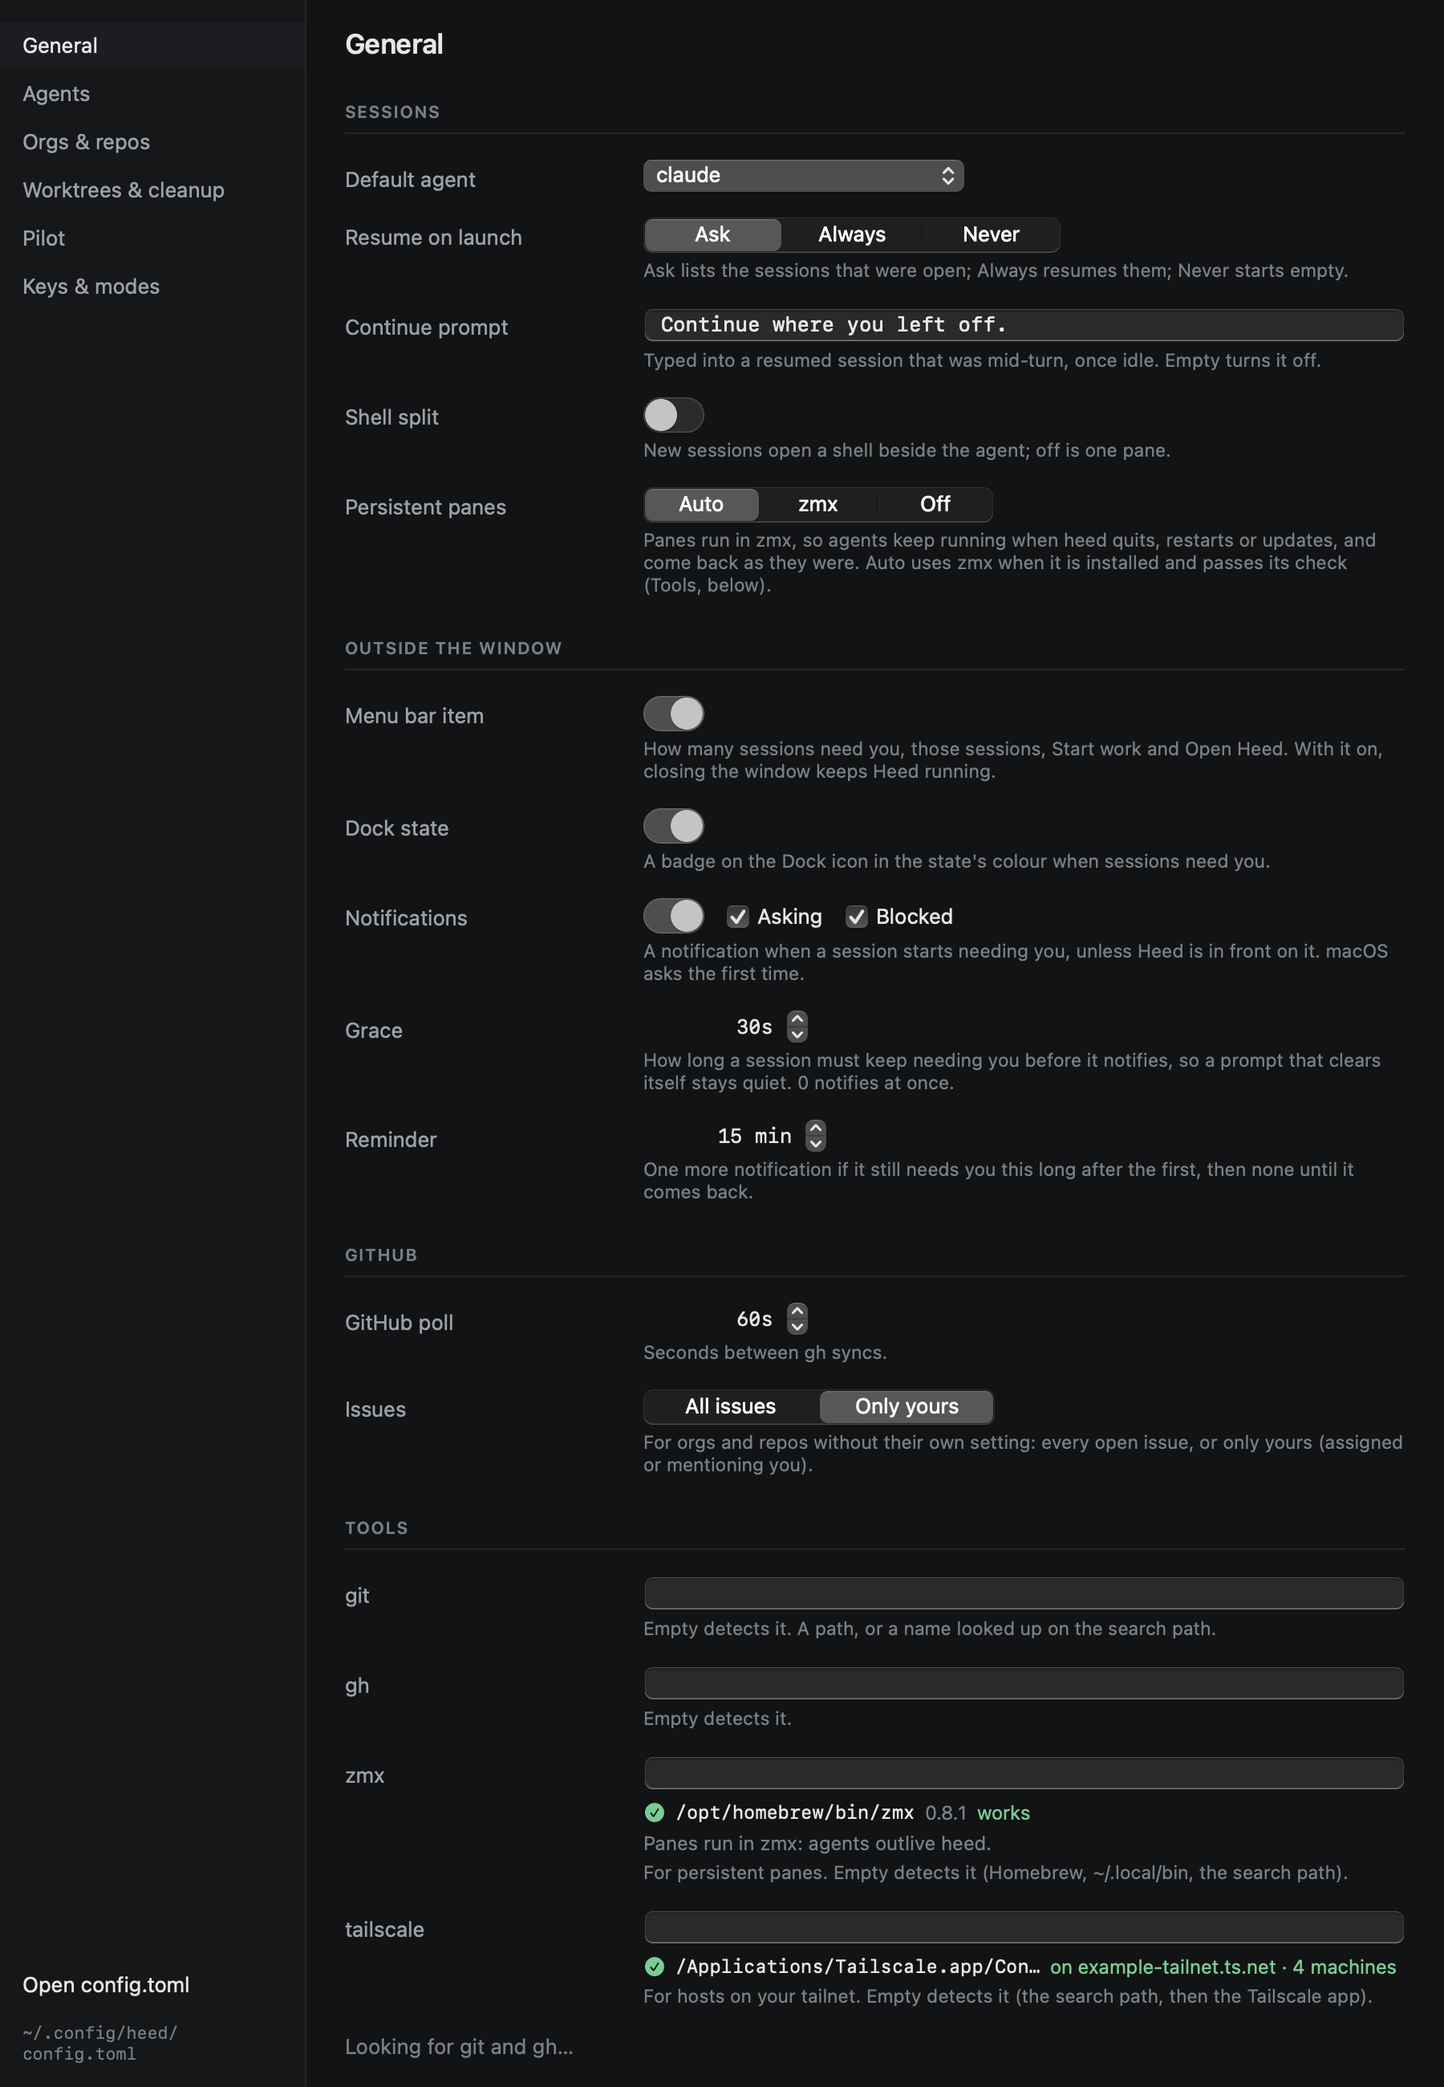
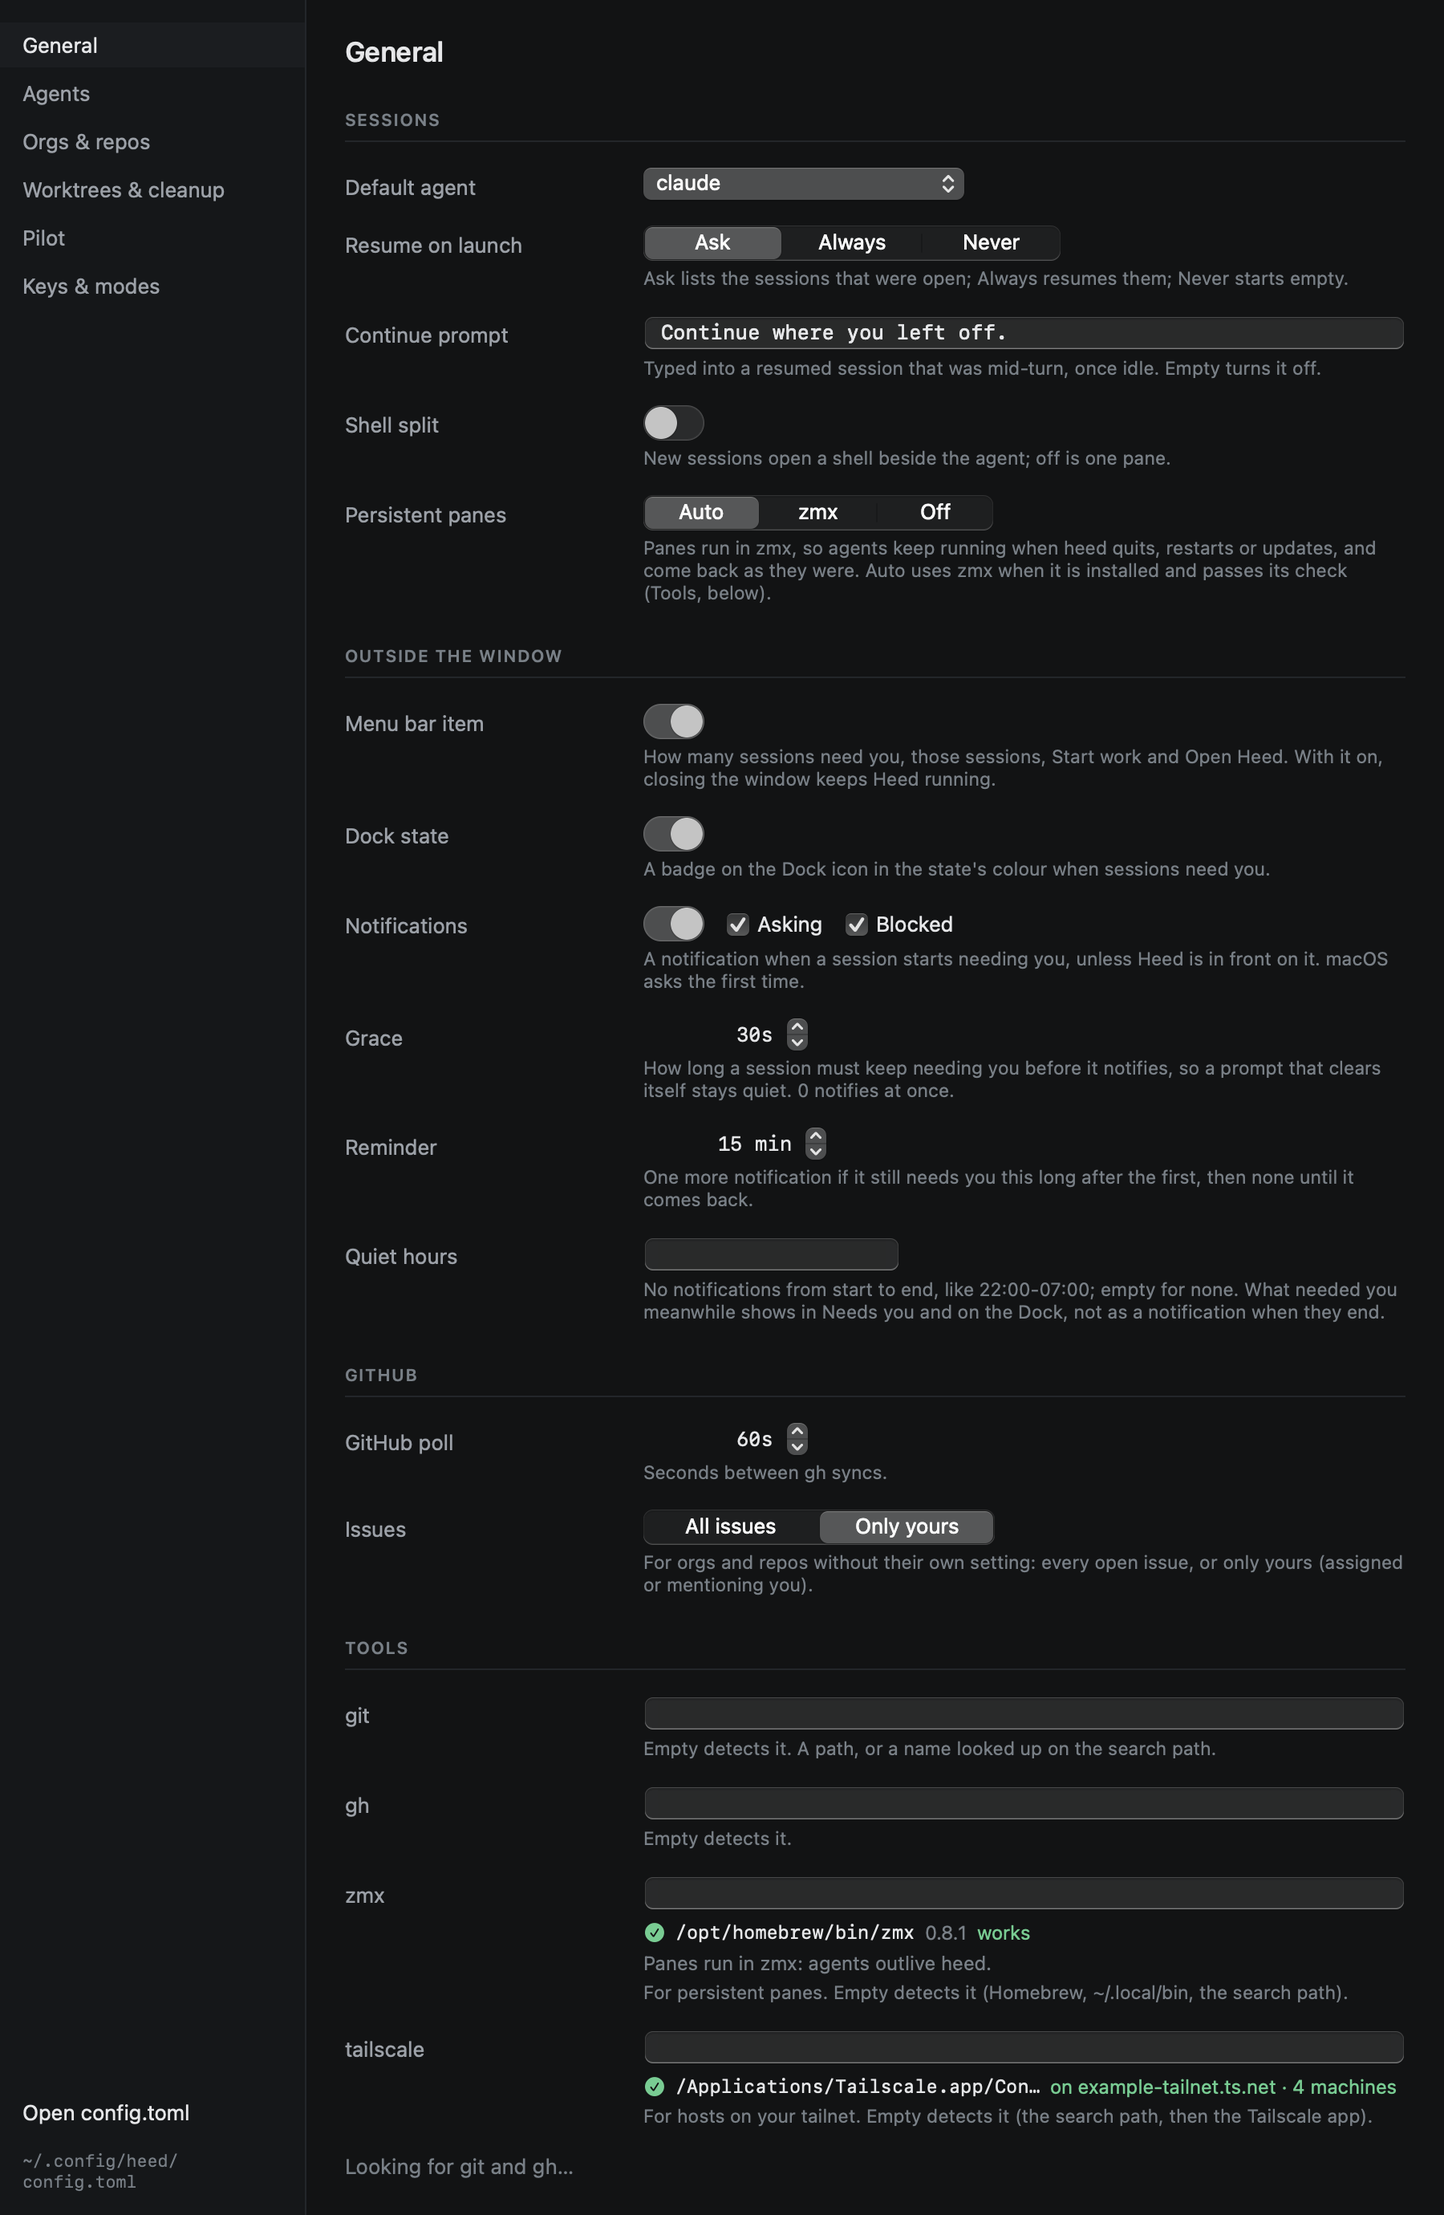
Quiet hours: no notifications between [attention] quiet's start and end
`[attention] quiet = "22:00-07:00"` (local time, may cross midnight; "" for none) is defined here so sessions
respect it now and attention items can later. In quiet hours `Notices` shows nothing, and what came due then is done:
no reminder, and nothing when they end, since Needs you and the Dock badge already show it. Quiet hours is in
Settings under Outside the window, the template and the docs; the settings shot grows to fit.

diff --git a/Tests/HeedCoreTests/QuietHoursTests.swift b/Tests/HeedCoreTests/QuietHoursTests.swift
@@ -1,0 +1,95 @@
+import Foundation
+@testable import HeedCore
+import Testing
+
+struct QuietHoursTests {
+    private var utc: Calendar {
+        var calendar = Calendar(identifier: .gregorian)
+        calendar.timeZone = TimeZone(identifier: "UTC")!
+        return calendar
+    }
+
+    /// 2026-10-22 at `hour`:`minute` UTC.
+    private func time(_ hour: Int, _ minute: Int = 0) -> Date {
+        utc.date(from: DateComponents(year: 2026, month: 10, day: 22, hour: hour, minute: minute))!
+    }
+
+    @Test func parses() {
+        #expect(QuietHours(parsing: "22:00-07:00") == QuietHours(start: 22 * 60, end: 7 * 60))
+        #expect(QuietHours(parsing: " 09:30 - 17:15 ")?.description == "09:30-17:15")
+        for bad in ["", "22-07", "22:00", "24:00-07:00", "22:60-07:00", "7:00-9:00", "22:00-22:00", "a:bc-07:00"] {
+            #expect(QuietHours(parsing: bad) == nil, "\(bad)")
+        }
+    }
+
+    @Test func acrossMidnight() {
+        let quiet = QuietHours(parsing: "22:00-07:00")!
+        #expect(quiet.contains(time(22), calendar: utc))
+        #expect(quiet.contains(time(3), calendar: utc))
+        #expect(quiet.contains(time(6, 59), calendar: utc))
+        #expect(!quiet.contains(time(7), calendar: utc))
+        #expect(!quiet.contains(time(21, 59), calendar: utc))
+    }
+
+    @Test func withinADay() {
+        let quiet = QuietHours(parsing: "12:00-13:30")!
+        #expect(quiet.contains(time(12), calendar: utc) && quiet.contains(time(13, 29), calendar: utc))
+        #expect(!quiet.contains(time(13, 30), calendar: utc) && !quiet.contains(time(11, 59), calendar: utc))
+    }
+
+    @Test func configDecodes() {
+        #expect(HeedConfig.default.attention.quiet == nil)
+        #expect(ConfigLoader.decode(ConfigLoader.defaultSource).config?.attention == AttentionSettings())
+        let (config, problems) = ConfigLoader.decode("[attention]\nquiet = \"23:00-06:30\"\n")
+        #expect(problems.isEmpty)
+        #expect(config?.attention.quiet == QuietHours(start: 23 * 60, end: 6 * 60 + 30))
+        let bad = ConfigLoader.decode("[attention]\nquiet = \"late\"\n")
+        #expect(bad.problems.map(\.path) == ["attention.quiet"])
+        #expect(bad.config?.attention.quiet == nil)
+    }
+
+    // MARK: Notices in quiet hours
+
+    private let start = Date(timeIntervalSince1970: 1000)
+    private let settings = NotificationSettings(graceSeconds: 30, reminderMinutes: 15)
+
+    private func at(_ seconds: TimeInterval) -> Date { start.addingTimeInterval(seconds) }
+
+    private func enter(_ notices: inout Notices, _ id: String, after seconds: TimeInterval = 0) {
+        notices.note(
+            id: id, title: "t-\(id)", agent: "claude", from: .working, to: ObservedState(.blocked),
+            settings: settings, at: at(seconds)
+        )
+    }
+
+    @Test func nothingInQuietHoursNorWhenTheyEnd() {
+        var notices = Notices()
+        enter(&notices, "a")
+        #expect(notices.drain(at: at(33), quiet: true) == nil)
+        #expect(notices.stage(of: "a") == .done)
+        #expect(notices.next == nil)
+        #expect(notices.drain(at: at(33 + 15 * 60 + 3)) == nil)
+    }
+
+    @Test func aReminderDueInQuietHoursIsDropped() {
+        var notices = Notices()
+        enter(&notices, "a")
+        #expect(notices.drain(at: at(33)) != nil)
+        #expect(notices.drain(at: at(33 + 15 * 60 + 3), quiet: true) == nil)
+        #expect(notices.next == nil)
+    }
+
+    @Test func afterQuietHoursNewChangesNotifyAgain() {
+        var notices = Notices()
+        enter(&notices, "a")
+        _ = notices.drain(at: at(33), quiet: true)
+        enter(&notices, "b", after: 100)
+        #expect(notices.drain(at: at(133))?.session == "b")
+        notices.note(
+            id: "a", title: "t-a", agent: "claude", from: .blocked, to: ObservedState(.working), settings: settings,
+            at: at(200)
+        )
+        enter(&notices, "a", after: 300)
+        #expect(notices.drain(at: at(333))?.session == "a")
+    }
+}

diff --git a/Sources/HeedCore/Config/HeedConfig.swift b/Sources/HeedCore/Config/HeedConfig.swift
@@ -15,6 +15,8 @@ public struct HeedConfig: Equatable, Sendable {
     public var showDockState = true
     /// `[notifications]`: a macOS notification when a session starts needing you.
     public var notifications = NotificationSettings()
+    /// `[attention]`: quiet hours, which notifications respect.
+    public var attention = AttentionSettings()
     /// `[summary] away_hours`: how long away (from the Mac, or with heed quit) before the summary of what happened
     /// opens on its own; 0 never opens it.
     public var summaryAwayHours = 8
@@ -73,6 +75,7 @@ public struct HeedConfig: Equatable, Sendable {
             lhs.showMenuBarItem == rhs.showMenuBarItem,
             lhs.showDockState == rhs.showDockState,
             lhs.notifications == rhs.notifications,
+            lhs.attention == rhs.attention,
             lhs.summaryAwayHours == rhs.summaryAwayHours,
             flat(lhs.keys) == flat(rhs.keys),
             flat(lhs.scopedKeys) == flat(rhs.scopedKeys),
@@ -541,6 +544,19 @@ public enum ConfigLoader {
         if let minutes = integer(["notifications", "reminder_minutes"], range: 0 ... 1440) {
             config.notifications.reminderMinutes = minutes
         }
+        // [attention]
+        if let text = string(["attention", "quiet"]) {
+            if text.isEmpty {
+                config.attention.quiet = nil
+            } else if let quiet = QuietHours(parsing: text) {
+                config.attention.quiet = quiet
+            } else {
+                problems.append(ConfigProblem(
+                    path: "attention.quiet",
+                    message: "expected \"HH:MM-HH:MM\" (24-hour, like \"22:00-07:00\"), or \"\""
+                ))
+            }
+        }
         // [summary]
         if let hours = integer(["summary", "away_hours"], range: 0 ... 720) { config.summaryAwayHours = hours }
         // [updates]
@@ -727,6 +743,11 @@ public enum ConfigLoader {
     grace_seconds = 30
     # One reminder if it still needs you this long after the notification, then nothing until it comes back; 0: none.
     reminder_minutes = 15
+
+    [attention]
+    # Quiet hours: no notifications from start to end, local time, 24-hour ("22:00-07:00"); "" for none. What needed
+    # you meanwhile is not notified when they end: Needs you and the Dock badge show it. macOS Focus applies as well.
+    quiet = ""
 
     [summary]
     # While you were away: what still waits on you, then what merged, how background runs ended, which agents

diff --git a/Sources/HeedCore/Config/QuietHours.swift b/Sources/HeedCore/Config/QuietHours.swift
@@ -1,0 +1,52 @@
+import Foundation
+
+/// `[attention] quiet = "22:00-07:00"`: hours in which Heed posts no notifications. The span may cross midnight; the
+/// start is in it, the end is not.
+public struct QuietHours: Equatable, Sendable, CustomStringConvertible {
+    /// Minutes after midnight.
+    public var start: Int
+    public var end: Int
+
+    public init?(start: Int, end: Int) {
+        guard (0 ..< 1440).contains(start), (0 ..< 1440).contains(end), start != end else { return nil }
+        self.start = start
+        self.end = end
+    }
+
+    /// `HH:MM-HH:MM`, 24-hour.
+    public init?(parsing text: String) {
+        let parts = text.split(separator: "-", omittingEmptySubsequences: false)
+            .map { $0.trimmingCharacters(in: .whitespaces) }
+        guard parts.count == 2, let start = Self.minutes(parts[0]), let end = Self.minutes(parts[1]) else { return nil }
+        self.init(start: start, end: end)
+    }
+
+    private static func minutes(_ text: String) -> Int? {
+        let parts = text.split(separator: ":", omittingEmptySubsequences: false)
+        guard parts.count == 2, parts[0].count == 2, parts[1].count == 2, let hours = Int(parts[0]),
+              let minutes = Int(parts[1]), (0 ..< 24).contains(hours), (0 ..< 60).contains(minutes)
+        else { return nil }
+        return hours * 60 + minutes
+    }
+
+    /// Whether `date`, on the local clock (`calendar`), falls in these hours.
+    public func contains(_ date: Date, calendar: Calendar = .current) -> Bool {
+        let parts = calendar.dateComponents([.hour, .minute], from: date)
+        let minute = (parts.hour ?? 0) * 60 + (parts.minute ?? 0)
+        return start < end ? (start ..< end).contains(minute) : minute >= start || minute < end
+    }
+
+    public var description: String {
+        func text(_ minutes: Int) -> String { String(format: "%02d:%02d", minutes / 60, minutes % 60) }
+        return "\(text(start))-\(text(end))"
+    }
+}
+
+/// `[attention]`: what may ask for your attention, and when not. Only `quiet` so far; it applies to every notification.
+public struct AttentionSettings: Equatable, Sendable {
+    public var quiet: QuietHours?
+
+    public init(quiet: QuietHours? = nil) {
+        self.quiet = quiet
+    }
+}

diff --git a/Sources/HeedCore/Sessions/Notices.swift b/Sources/HeedCore/Sessions/Notices.swift
@@ -198,24 +198,28 @@ public struct Notices: Equatable, Sendable {
 
     /// Once a drain is due, what is ready by `now` as one notice: each entry past its grace, or due its reminder, moves
     /// on a stage. Those whose session `onScreen` says you are looking at are left out; seen counts as notified, so the
-    /// reminder
-    /// still comes. Before then, nothing changes.
-    public mutating func drain(at now: Date, onScreen: (String) -> Bool = { _ in false }) -> Notice? {
+    /// reminder still comes. In `quiet` hours nothing is shown and what came due is done: no reminder, and nothing when
+    /// they end (Needs you and the Dock badge still show it). Before a drain is due, nothing changes.
+    public mutating func drain(
+        at now: Date, quiet: Bool = false, onScreen: (String) -> Bool = { _ in false }
+    ) -> Notice? {
         guard due(at: now) else { return nil }
         var shown: [Entry] = []
         for index in waiting.indices {
             guard let ready = waiting[index].ready, ready <= now else { continue }
             var entry = waiting[index].entry
             switch waiting[index].stage {
-            case .grace:
+            case .grace where !quiet:
                 waiting[index].stage = .notified(remind: waiting[index].timing.reminder.map(now.addingTimeInterval))
+            case .grace:
+                waiting[index].stage = .done
             case .notified:
                 waiting[index].stage = .done
                 entry.reminder = true
             case .done:
                 continue
             }
-            if !onScreen(entry.session) { shown.append(entry) }
+            if !quiet, !onScreen(entry.session) { shown.append(entry) }
         }
         switch shown.count {
         case 0: return nil

diff --git a/Sources/HeedApp/Notifications/Notifier.swift b/Sources/HeedApp/Notifications/Notifier.swift
@@ -4,7 +4,8 @@ import HeedCore
 
 /// macOS notifications when sessions start needing you (`[notifications]`): asked for, never taken, so Heed stays out
 /// of the way until you choose Open. When and what is `Notices`' call: a grace first, a burst as one summary, one
-/// reminder. Nothing is shown for the session you are looking at, and permission to notify is asked the first time
+/// reminder, nothing in quiet hours. Nothing is shown for the session you are looking at, and permission to notify is
+/// asked the first time
 /// there is something to say, not at launch.
 @MainActor
 final class Notifier: NSObject, UNUserNotificationCenterDelegate {
@@ -88,7 +89,9 @@ final class Notifier: NSObject, UNUserNotificationCenterDelegate {
         wake = nil
         drainTask = nil
         guard let model else { return }
-        let notice = notices.drain(at: Date()) { model.isOnScreen(sessionID: $0) }
+        let now = Date()
+        let quiet = model.config.attention.quiet?.contains(now) ?? false
+        let notice = notices.drain(at: now, quiet: quiet) { model.isOnScreen(sessionID: $0) }
         schedule()
         await post(notice)
     }

diff --git a/Sources/HeedApp/Views/SettingsView.swift b/Sources/HeedApp/Views/SettingsView.swift
@@ -329,6 +329,14 @@ private struct GeneralSettings: View {
                 .frame(width: 160)
                 .disabled(!model.config.notifications.enabled)
             }
+            Field(
+                label: "Quiet hours",
+                detail: "No notifications from start to end, like 22:00-07:00; empty for none. What needed you "
+                    + "meanwhile shows in Needs you and on the Dock, not as a notification when they end."
+            ) {
+                ConfigTextField(path: ["attention", "quiet"], value: model.config.attention.quiet?.description ?? "")
+                    .frame(width: 160)
+            }
             GroupLabel(title: "GitHub")
             Field(label: "GitHub poll", detail: "Seconds between gh syncs.") {
                 Stepper(value: Binding(

diff --git a/Sources/HeedApp/Shots/Shots.swift b/Sources/HeedApp/Shots/Shots.swift
@@ -321,7 +321,7 @@ enum Shots {
         Shot(id: "configuration/problem", keys: "", crop: .statusBar, cropPadding: 0, prepare: { model in
             model.applyConfig(source: "[cleanup]\nidle_days = 0\n")
         }),
-        Shot(id: "configuration/settings", subject: .settings(), size: CGSize(width: 900, height: 1300)),
+        Shot(id: "configuration/settings", subject: .settings(), size: CGSize(width: 900, height: 1380)),
         Shot(id: "configuration/orgs-repos", subject: .settings(.colors), size: CGSize(width: 1180, height: 1400)),
     ]
 

diff --git a/docs/outside-the-window/notifications.md b/docs/outside-the-window/notifications.md
@@ -29,6 +29,10 @@ time there is something to say, not when Heed starts; System Settings › Notifi
   it brings Heed forward on the session instead, so you answer it yourself. macOS asks you to unlock first when the
   screen is locked. Other agents' prompts get Open only.
 
+- **Quiet hours.** `[attention] quiet` names hours with no notifications, in local time (`"22:00-07:00"` crosses
+  midnight). What starts needing you meanwhile is not notified when they end, and gets no reminder: Needs you and the
+  Dock badge show it. macOS Focus is respected too, by macOS itself.
+
 ```toml
 [notifications]
 enabled = true
@@ -36,6 +40,9 @@ asking = true      # questions, a plan to approve
 blocked = true     # permission prompts
 grace_seconds = 30
 reminder_minutes = 15
+
+[attention]
+quiet = "22:00-07:00"   # "" for none
 ```
 
 The same settings are in Settings (`⌘,`), under Outside the window.

diff --git a/docs/configuration/reference.md b/docs/configuration/reference.md
@@ -150,6 +150,11 @@ grace_seconds = 30
 # One reminder if it still needs you this long after the notification, then nothing until it comes back; 0: none.
 reminder_minutes = 15
 
+[attention]
+# Quiet hours: no notifications from start to end, local time, 24-hour ("22:00-07:00"); "" for none. What needed
+# you meanwhile is not notified when they end: Needs you and the Dock badge show it. macOS Focus applies as well.
+quiet = ""
+
 [summary]
 # While you were away: what still waits on you, then what merged, how background runs ended, which agents
 # finished, the reviews that arrived and the sessions that closed, by day. It opens on its own when you come back
